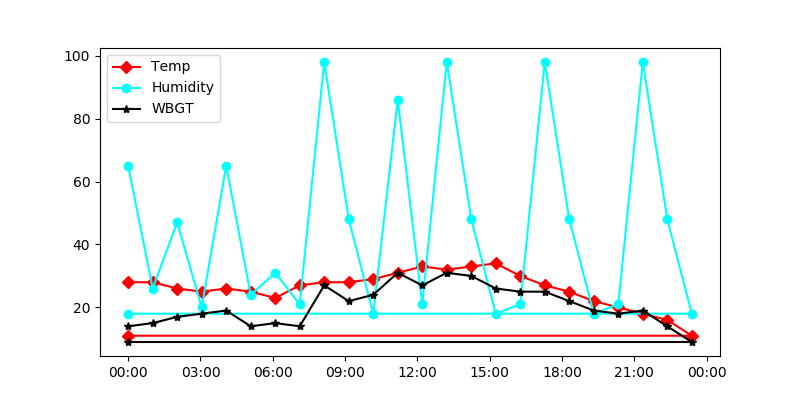
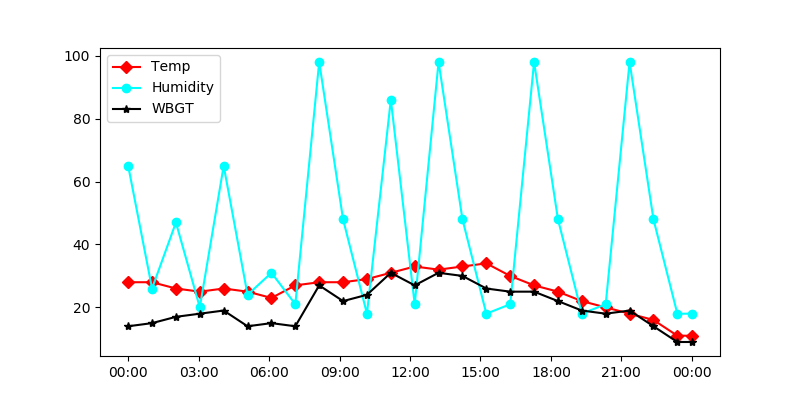
plt.pi is fuck

diff --git a/src/SlackAPI/SlackAPI_class.py b/src/SlackAPI/SlackAPI_class.py
@@ -82,7 +82,17 @@ class SlackAPI:
 
     def Visualization_Sitting(self,path):
         array = np.loadtxt(path,delimiter=',')
+        print(array.shape)
         print(array)
+        #final  = np.zeros((1,2),np.float64)
+        #final[0,:] = [2358,0]
+        #print(final.shape)
+
+
+        #array = np.insert(array,array.shape[0]-1,[2359,1],axis=0)
+        #array = np.concatenate([array,final],0)
+        #array  = np.append(array,final,axis = 0)
+        #print(array)
         size = array.shape[0]
         #blue
         col1 = np.array([0.0,156/255,209/255])
@@ -90,16 +100,21 @@ class SlackAPI:
         col2 = np.array([255/255,217/255,0.0])
         #label
         st = ["Standing","Sitting"]
-        colorlist = np.zeros((size,3),np.float64)
+        colorlist = np.zeros((size+1,3),np.float64)
         #start_time = int(array[0,0])
         now_time = 0
-        time_array = [0] 
+        time_array = [] 
         label_list = ['Standing']
         #create label and color list
         for w in range(size+1):
             if w == size:
                 time_array.append(2398 - now_time)
+                colorlist[w,:] =  col1[:]
                 label_list.append(st[0])
+
+                #time_array.append(1)
+                #colorlist[w+1,:] =  col1[:]
+                #label_list.append(st[0])
                 break
             num = int(array[w,0])
             minute = num %100
@@ -121,6 +136,8 @@ class SlackAPI:
                 label_list.append(st[1])
         #create Graph
         print(time_array)
+        #print(time_array.shape)
+        print(colorlist)
         print(label_list)
         plt.figure()
         plt.pie(time_array,colors = colorlist,startangle=90,counterclock=False)
@@ -162,7 +179,7 @@ class SlackAPI:
         colorlist = np.zeros((size,3),np.float64)
         #start_time = int(array[0,0])
         now_time = 0
-        time_array = [0]
+        time_array = []
         label_list = ['Close']
         #create label and color list
         for w in range(size+1):

diff --git a/src/SlackAPI_class_test.py b/src/SlackAPI_class_test.py
@@ -23,14 +23,14 @@ Slack.send_message(message)
 #files = {'file': open("test.png", 'rb')}
 #sensor_type = "PIR"
 #text = "you must stand up!"
-a = 1
-b = 2
+a = 180
+b = 90
 Slack.Notification_HeatStroke(a,b)
 Slack.Notification_Sitting(b)
 Slack.Notification_Ventilation(b)
 
-x = np.array([[1045,0],[1101,1],[1122 , 0],[1511,1],[1600,0],[1620,1], [2000,0]])
-y = np.array([[1022,0],[1301,1],[1311 , 0],[1320,1],[1344,0],[1559,1], [1602,0]])
+x = np.array([[000,0],[1045,0],[1101,1],[1122 , 0],[1511,1],[1600,0],[1620,1], [2000,0]])
+y = np.array([[000,0],[1022,0],[1301,1],[1311 , 0],[1320,1],[1344,0],[1559,1], [1602,0]])
 #x = np.array([[10:10:00,0],[13:13:00,1],[15:15:00 , 0],[16:16:00,1]])
 print(x)
 path = 'Sitting.csv'
@@ -76,7 +76,7 @@ data = """date,Hum,Temp,WBGT
 2018-11-01 21:21:00,98,18,19
 2018-11-01 22:22:00,48,16,14
 2018-11-01 23:23:00,18,11,9
-2018-11-01 00:00:00,18,11,9"""
+2018-11-02 00:00:00,18,11,9"""
 df = pd.read_csv(io.StringIO(data), parse_dates=[0])
 path = 'HeatStroke.csv'
 df.to_csv(path)
